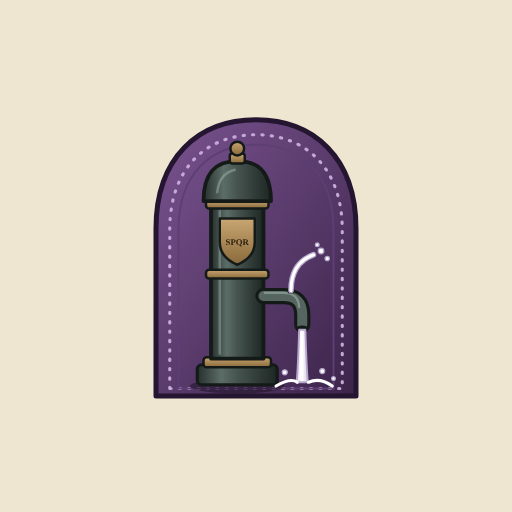
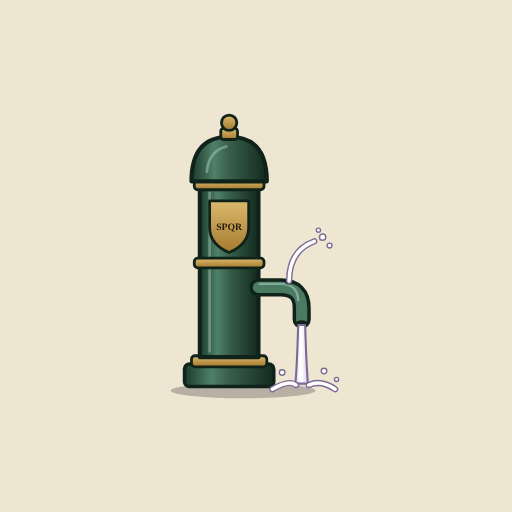
Nasone: solo la colonnina verde con pomello dorato, senza targa viola
Claude-Session: https://claude.ai/code/session_01QH8fKT3C3DcU77kC9fZ5n5

Changed region(s): [[0.2812, 0.2188, 0.7188, 0.7812]]

diff --git a/storia.html b/storia.html
@@ -11,12 +11,12 @@ body{margin:0;background:var(--carta);color:var(--testo);font:1rem/1.6 system-ui
 main{max-width:42rem;margin:0 auto;padding:1.2rem 1rem 3rem}
 h1{font:700 1.8rem Georgia,serif;margin:.2rem 0 .3rem}h2{font-size:1.1rem;margin:1.6rem 0 .3rem;color:var(--verde)}
 a{color:var(--verde)}nav{display:flex;flex-wrap:wrap;gap:.5rem;margin:.6rem 0 1rem}nav button{font:inherit;padding:.3rem .8rem;border:1px solid var(--linea);border-radius:999px;background:none;color:inherit;cursor:pointer}nav button[aria-pressed=true]{background:#5a3a6e;color:#fff;border-color:#5a3a6e}
-section[hidden]{display:none}.upd{opacity:.7;font-size:.9rem}img.hero{display:block;width:150px;height:auto;margin:.5rem auto 1rem}
+section[hidden]{display:none}.upd{opacity:.7;font-size:.9rem}img.hero{display:block;width:120px;height:auto;margin:.5rem auto 1rem}
 </style>
 </head>
 <body><main>
 <p><a href="./">← Nasone</a></p>
-<img class="hero" src="img/nasone.svg" alt="" width="150" height="180">
+<img class="hero" src="img/nasone.svg" alt="" width="120" height="184">
 <nav aria-label="Lingua / Language"><button data-l="it">IT</button><button data-l="en">EN</button><button data-l="fr">FR</button><button data-l="es">ES</button><button data-l="de">DE</button></nav>
 <section data-l="it"><h1>Storia e curiosità dei nasoni</h1>
 <p>Il nasone è la fontanella pubblica in ghisa che a Roma trovi quasi a ogni angolo: l’acqua è la stessa delle case, è gratuita e scorre giorno e notte.</p>

diff --git a/index.html b/index.html
@@ -13,10 +13,10 @@
   <meta name="apple-mobile-web-app-capable" content="yes">
   <meta name="apple-mobile-web-app-title" content="Nasone">
   <link rel="stylesheet" href="vendor/leaflet/leaflet.css">
-  <link rel="stylesheet" href="css/app.css?v=2">
+  <link rel="stylesheet" href="css/app.css?v=3">
 </head>
 <body>
-  <div id="splash" aria-hidden="true"><img src="img/nasone.svg" alt="" width="180" height="216"><p>Nasone</p></div>
+  <div id="splash" aria-hidden="true"><img src="img/nasone.svg" alt="" width="150" height="230"><p>Nasone</p></div>
   <div class="app">
     <main id="map" aria-label="Mappa dei nasoni" data-i18n-attr="aria-label:map.label"></main>
 
@@ -84,8 +84,8 @@
 
   <noscript><p class="noscript">JavaScript is required · Per usare la mappa serve JavaScript · JavaScript est nécessaire · Se necesita JavaScript · JavaScript wird benötigt.</p></noscript>
   <script src="vendor/leaflet/leaflet.js"></script>
-  <script src="js/i18n.js?v=2"></script>
-  <script src="js/geo.js?v=2"></script>
-  <script src="js/app.js?v=2"></script>
+  <script src="js/i18n.js?v=3"></script>
+  <script src="js/geo.js?v=3"></script>
+  <script src="js/app.js?v=3"></script>
 </body>
 </html>

diff --git a/sw.js b/sw.js
@@ -1,8 +1,8 @@
 /* Nasone — service worker: salva il «guscio» dell'app (pagina, stili, script, Leaflet, icone) per aprirla anche con poca rete.
  * Mappe, dati dei nasoni e percorsi arrivano sempre da internet e non vengono mai salvati qui (i dati dei nasoni li ricorda l'app in localStorage).
  * Per forzare l'aggiornamento delle copie salvate cambia VERSION. */
-const VERSION = 'nasone-v2';
-const SHELL = ['./', 'index.html', 'css/app.css?v=2', 'js/i18n.js?v=2', 'js/geo.js?v=2', 'js/app.js?v=2', 'vendor/leaflet/leaflet.js', 'vendor/leaflet/leaflet.css', 'img/icon-192.png', 'img/nasone.svg', 'manifest.webmanifest'];
+const VERSION = 'nasone-v3';
+const SHELL = ['./', 'index.html', 'css/app.css?v=3', 'js/i18n.js?v=3', 'js/geo.js?v=3', 'js/app.js?v=3', 'vendor/leaflet/leaflet.js', 'vendor/leaflet/leaflet.css', 'img/icon-192.png', 'img/nasone.svg', 'manifest.webmanifest'];
 
 self.addEventListener('install', (e) => { e.waitUntil(caches.open(VERSION).then((c) => c.addAll(SHELL)).then(() => self.skipWaiting())); });
 self.addEventListener('activate', (e) => {

diff --git a/art/build.py b/art/build.py
@@ -4,7 +4,7 @@ ROOT=os.path.dirname(os.path.dirname(os.path.abspath(__file__)))
 svg=open(ROOT+'/art/nasone.svg').read()
 BG='#efe6d2'
 def fig(h): 
-    w=h*400/480
+    w=h*280/430
     return svg.replace('<svg ',f'<svg width="{w:.1f}" height="{h:.1f}" style="display:block" ')
 def tile(size, h, radius=0, bg=BG):
     return f'<style>html,body{{margin:0;background:transparent}}.t{{width:{size}px;height:{size}px;background:{bg};border-radius:{radius}px;display:grid;place-items:center}}</style><div class="t">{fig(h)}</div>'
@@ -20,7 +20,7 @@ async def main():
         await shot(b,tile(512,300,0),512,512,I+'icon-maskable-512.png',False)
         await shot(b,tile(180,146,0),180,180,I+'apple-touch-icon.png',False)
         await shot(b,tile(512,410,0),512,512,S+'play-icon-512.png',False)
-        feat=f'''<style>html,body{{margin:0}}.f{{width:1024px;height:500px;background:linear-gradient(120deg,#efe6d2 0%,#e6dcec 55%,#cdb9de 100%);display:flex;align-items:center;gap:56px;padding:0 90px;box-sizing:border-box;font-family:Georgia,'Times New Roman',serif;color:#3b2449}}
+        feat=f'''<style>html,body{{margin:0}}.f{{width:1024px;height:500px;background:linear-gradient(120deg,#f4ecda 0%,#efe6d2 55%,#e2d4b6 100%);display:flex;align-items:center;gap:56px;padding:0 90px;box-sizing:border-box;font-family:Georgia,'Times New Roman',serif;color:#3b2449}}
         h1{{font-size:112px;margin:0;letter-spacing:-2px;line-height:1}}p{{font-size:34px;margin:14px 0 0;color:#5a3a6e;font-family:system-ui,sans-serif;line-height:1.25}}</style>
         <div class="f">{fig(420)}<div><h1>Nasone</h1><p>Trova la fontanella<br>di Roma più vicina</p></div></div>'''
         await shot(b,feat,1024,500,S+'feature-graphic-1024x500.png',False)

diff --git a/art/render.py b/art/render.py
@@ -8,6 +8,6 @@ async def main():
     async with async_playwright() as p:
         b=await p.chromium.launch()
         html=lambda inner,bg='transparent': f'<style>html,body{{margin:0;background:{bg}}}svg{{display:block}}</style>{inner}'
-        await shot(b, html(svg.replace('<svg ','<svg width="800" height="960" ')),800,960,'/tmp/nasone_big.png')
+        await shot(b, html(svg.replace('<svg ','<svg width="700" height="1075" ')),700,1075,'/tmp/nasone_big.png')
         await b.close()
 asyncio.run(main())
